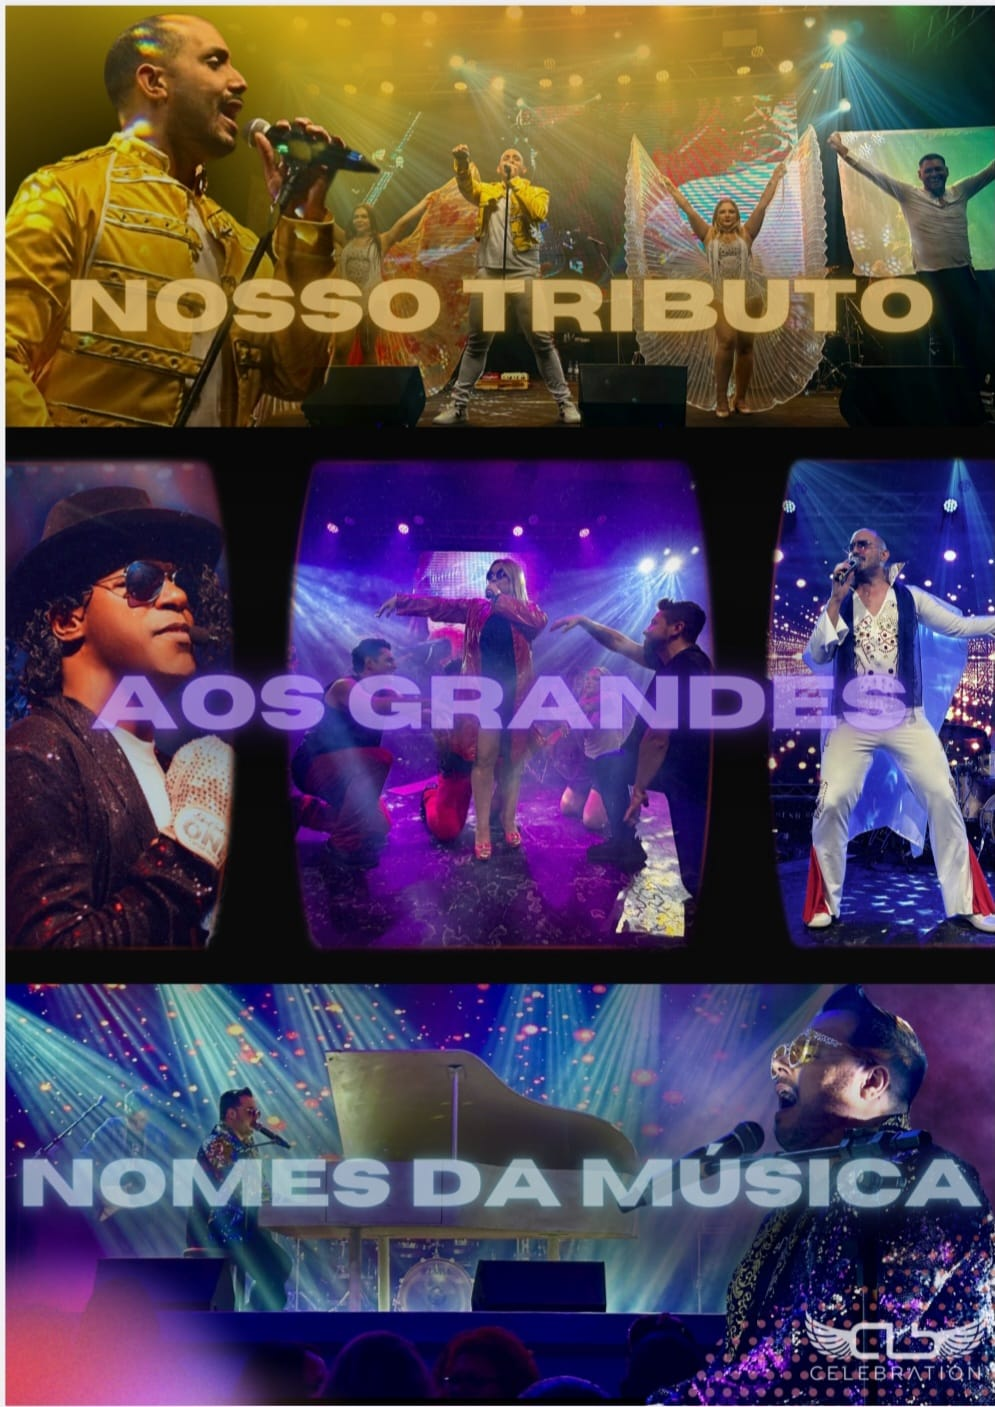
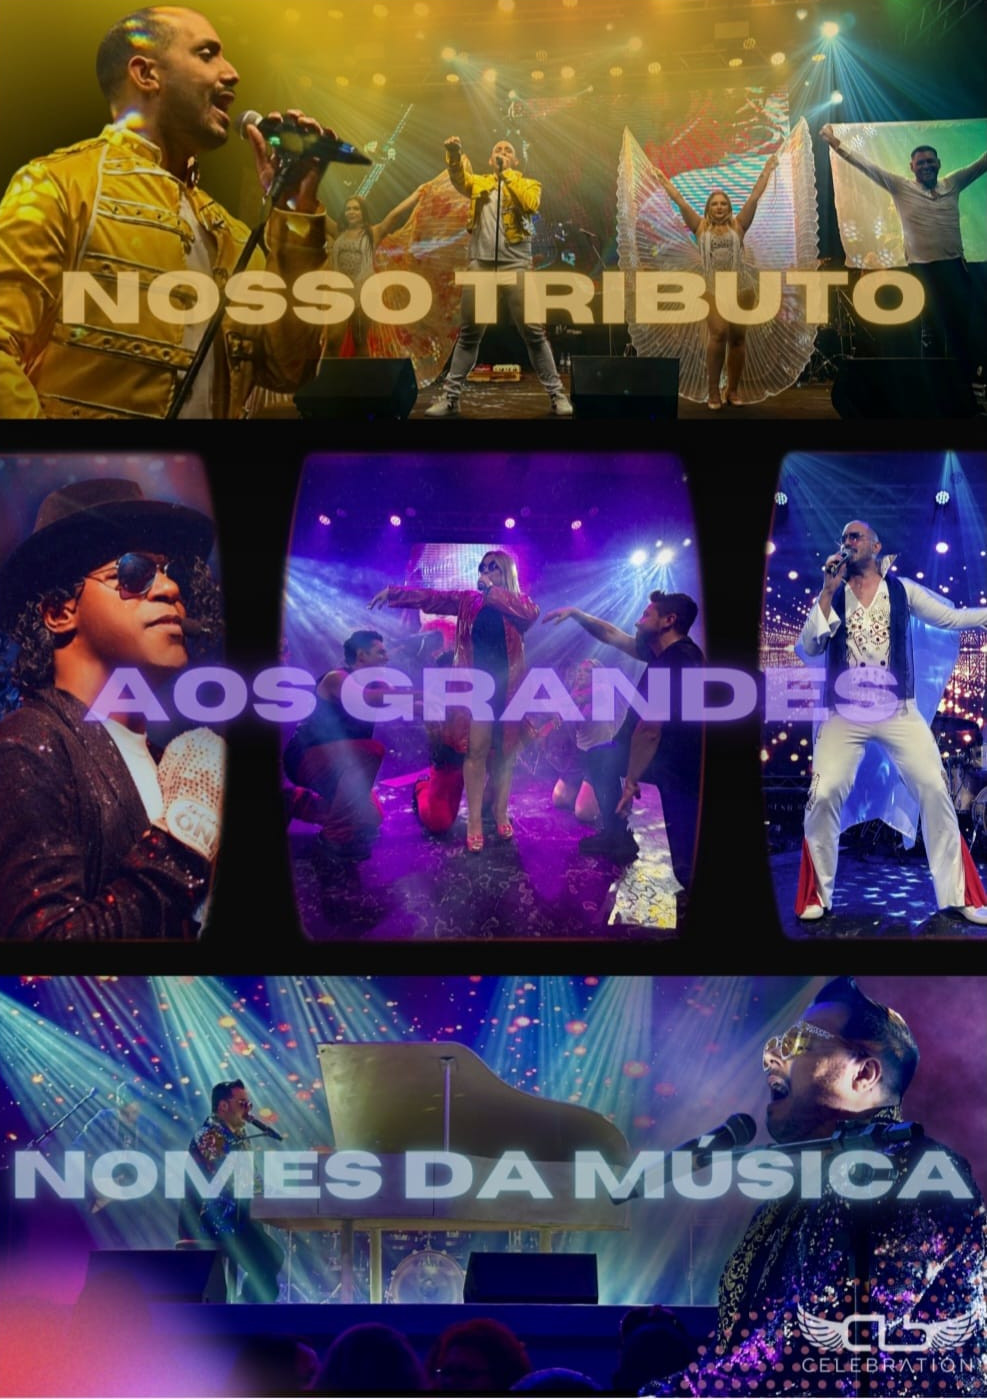
Video demostrativo

diff --git a/index.html b/index.html
@@ -11,23 +11,33 @@
 </head>
 <body>
     <div class="container-fluid">
-        <div class="row ">
-            <img class="img-fluid" src="./imagem/tour2025-1.jpg" alt="" >
+        <div class="row">
+            <img  class="img-tour" src="./imagem/tour2025-1.jpg" alt="" >
         </div>
     </div>
    
     <div class="container-fluid">
-        <div class="row ">
-            <div class="col-sm-12 col-md-6 col-lg-4 ">
+        <div class="row">
+            <div class="col-sm-12 col-md-6 col-lg-4 p-0 ">
                 <img class="img-fluid" src="./imagem/bale.jpeg" alt="imagem 01">
             </div>
-            <div class="col-sm-12 col-md-6 col-lg-4">
+            <div class="col-sm-12 col-md-6 col-lg-4 p-0">
                 <img class="img-fluid" src="./imagem/cantores.jpeg" alt="imagem 02">
             </div>
-            <div class="col-sm-12 col-md-6 col-lg-4">
+            <div class="col-sm-12 col-md-6 col-lg-4 p-0">
                 <img class="img-fluid" src="./imagem/banda.jpeg" alt="imagem 03">
             </div>
-        </class=>
+        </div>
+    </div>
+
+    <div class="container-fluid">
+        <div class="row">
+            <div class="col-sm-12 col-md-6 col-lg-12 p-0">
+                <video autoplay loop muted src="./Video/video-demonstrativo.mp4"></video>
+            </div>
+
+
+        </div>
     </div>
     
 </body>

diff --git a/style.css b/style.css
@@ -4,6 +4,18 @@ body{
     box-sizing: border-box;
 }
 
+.img-tour{
+    padding: 0;
+}
+
+.img-fluid{
+    height: 500px;
+}
+
+video{
+    width: 500px;
+    
+}
 
 
 
